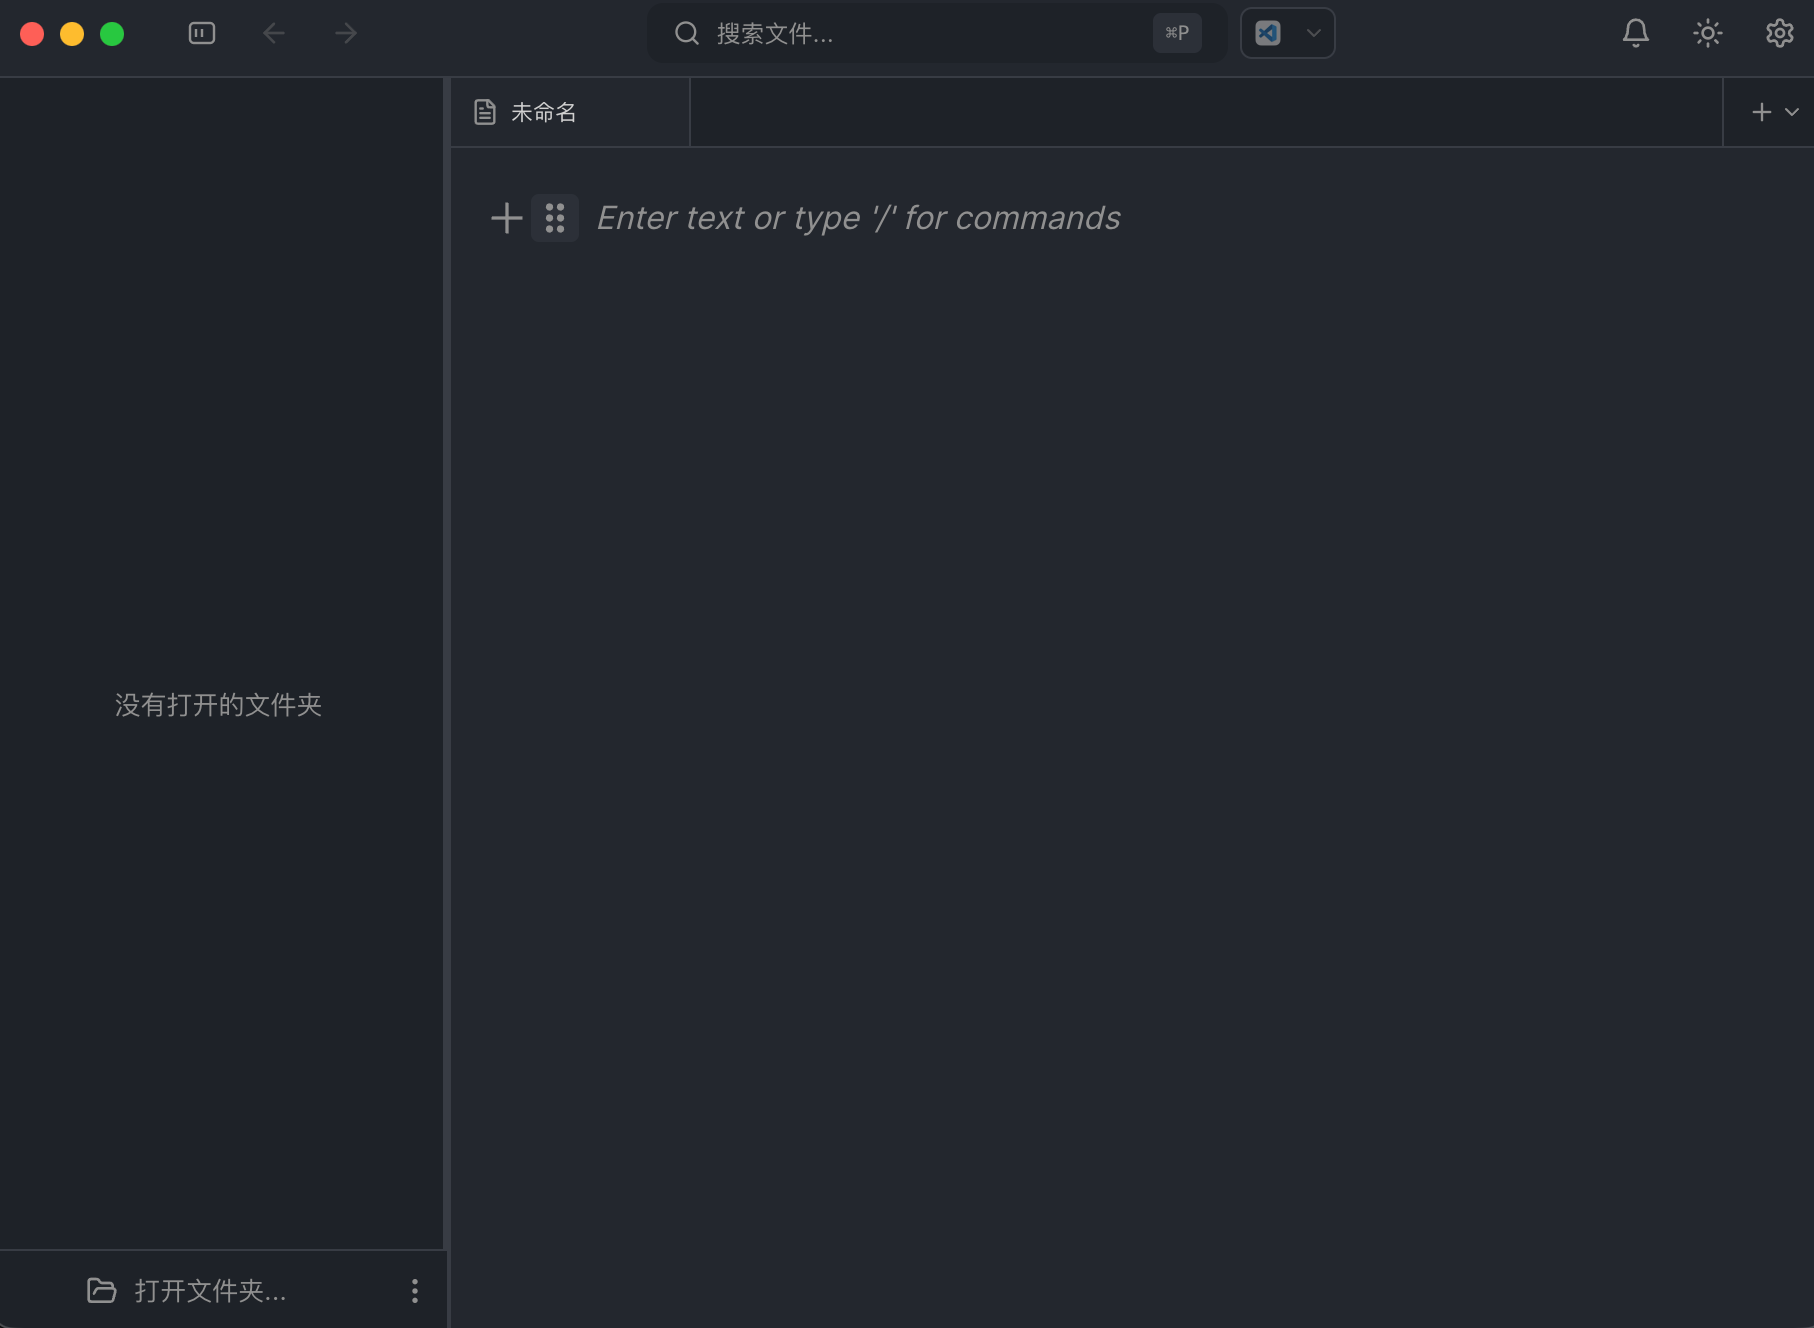
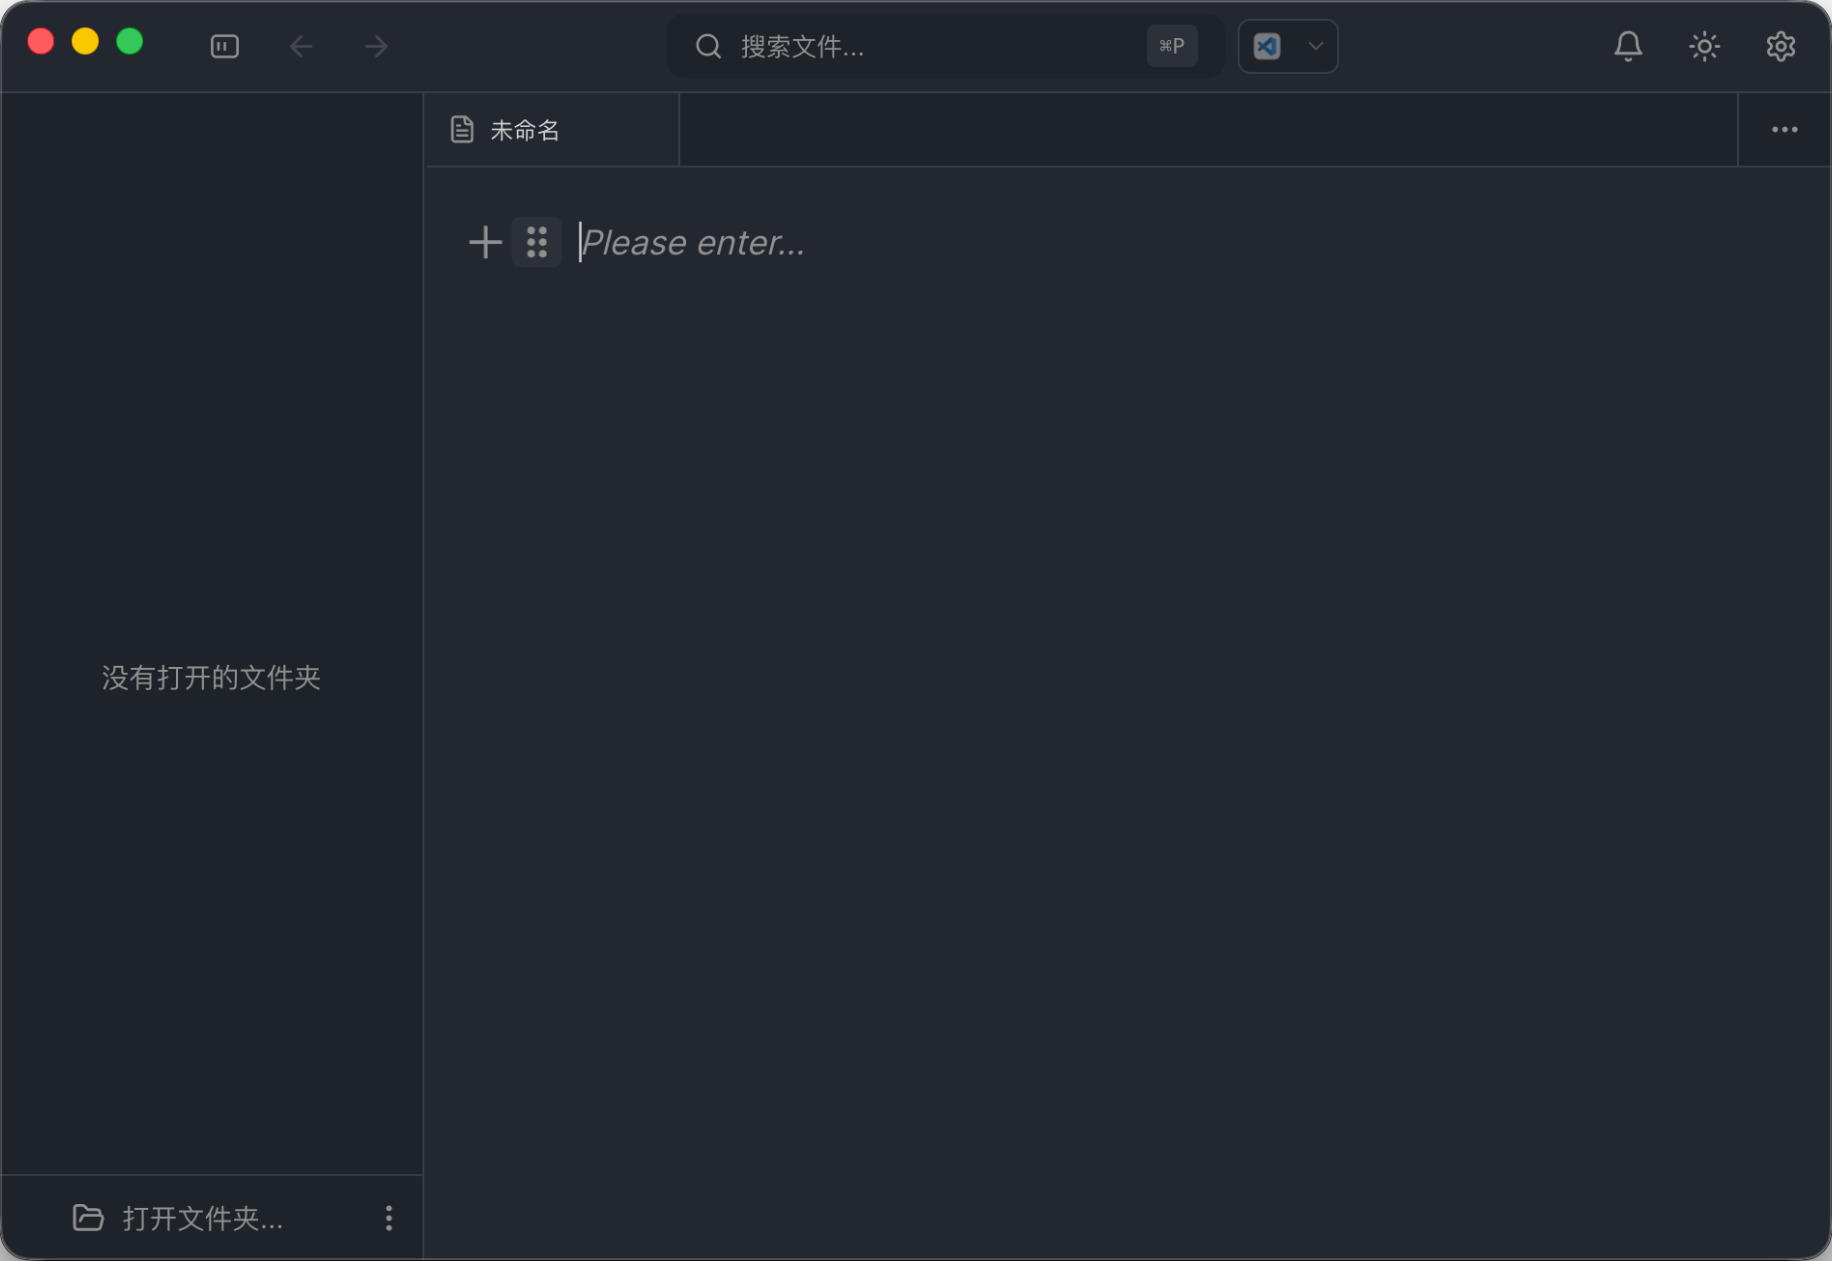
docs: update README

diff --git a/README.md b/README.md
@@ -1,33 +1,17 @@
-# Keep Notes
+# Keep Notes	
 
-一款简约、专注、高效的 Markdown 笔记应用。
-
-Keep Notes 致力于提供纯粹、流畅的写作体验，让用户专注于记录、整理和沉淀内容，而不是被复杂功能打断，让 Markdown 写作更加高效，它适合用于日常笔记、灵感收集、任务提醒、技术文档、项目记录和知识管理
+Keep Notes 是一款简洁高效的 Markdown 桌面笔记应用，帮助你快速记录、编辑、管理内容和提醒事项。
 
 ![](https://raw.githubusercontent.com/qiuweikangdev/keep-notes/master/images/demo.png)
 
-## 功能特性
+## 功能
 
-- **Markdown 编辑器**
-  支持 Markdown 语法编写与预览，所见即所得。
-  
-- **Git 操作**
-  支持通过 Git 管理笔记版本，方便同步、备份和追踪历史修改。
-  
-- **提醒事项**
-  可为笔记或任务设置提醒，避免遗漏重要事项。
-  
-- **应用通知**
-
-  支持自定义的应用通知，通知弹窗可定制化配置。
-
-- **通知推送**
-  在合适的时间收到提醒通知，让笔记不仅能记录内容，也能及时收到消息提醒。
-  
-- **多面板管理**
-  支持多面板布局，便于同时查看、编辑和管理多个笔记内容。
-
-
+- **Markdown 编辑**：支持 Markdown 编写与实时预览，适合笔记、文档和项目记录。
+- **Git 版本管理**：保存历史版本，支持同步、备份和变更追踪。
+- **提醒事项**：可为笔记或任务设置提醒，避免遗漏重要事项。
+- **应用通知**：支持自定义的应用通知，通知弹窗可定制化配置
+- **多面板工作区**：同时查看和编辑多个笔记。
+- **浮动窗口**：支持在独立浮动窗口中快速创建提醒和简约编辑器体验。
 
 ## 安装问题
 
@@ -36,4 +20,3 @@ Keep Notes 致力于提供纯粹、流畅的写作体验，让用户专注于记
 ```bash
 xattr -dr com.apple.quarantine "/Applications/Keep Notes.app"
 ```
-